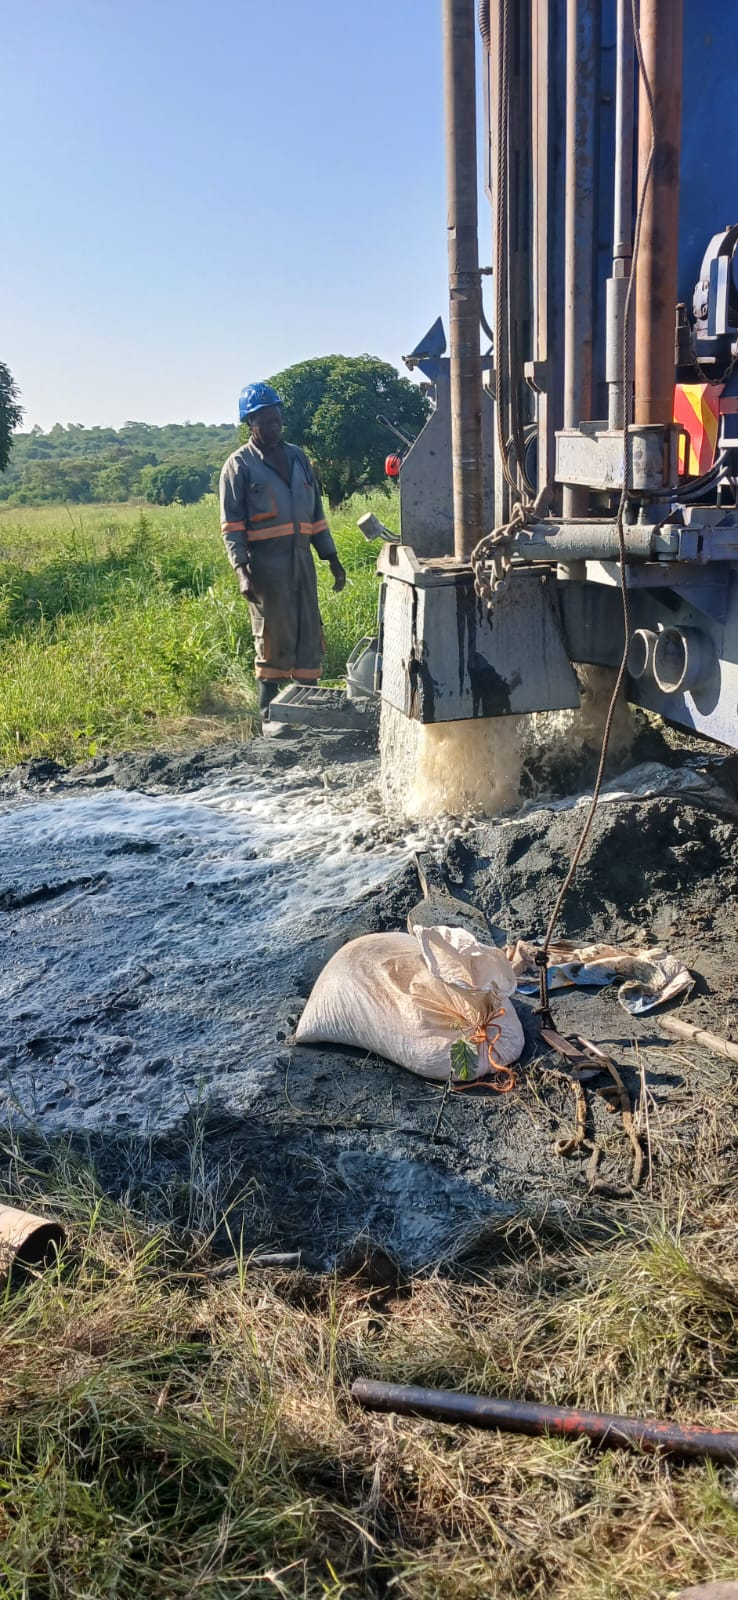
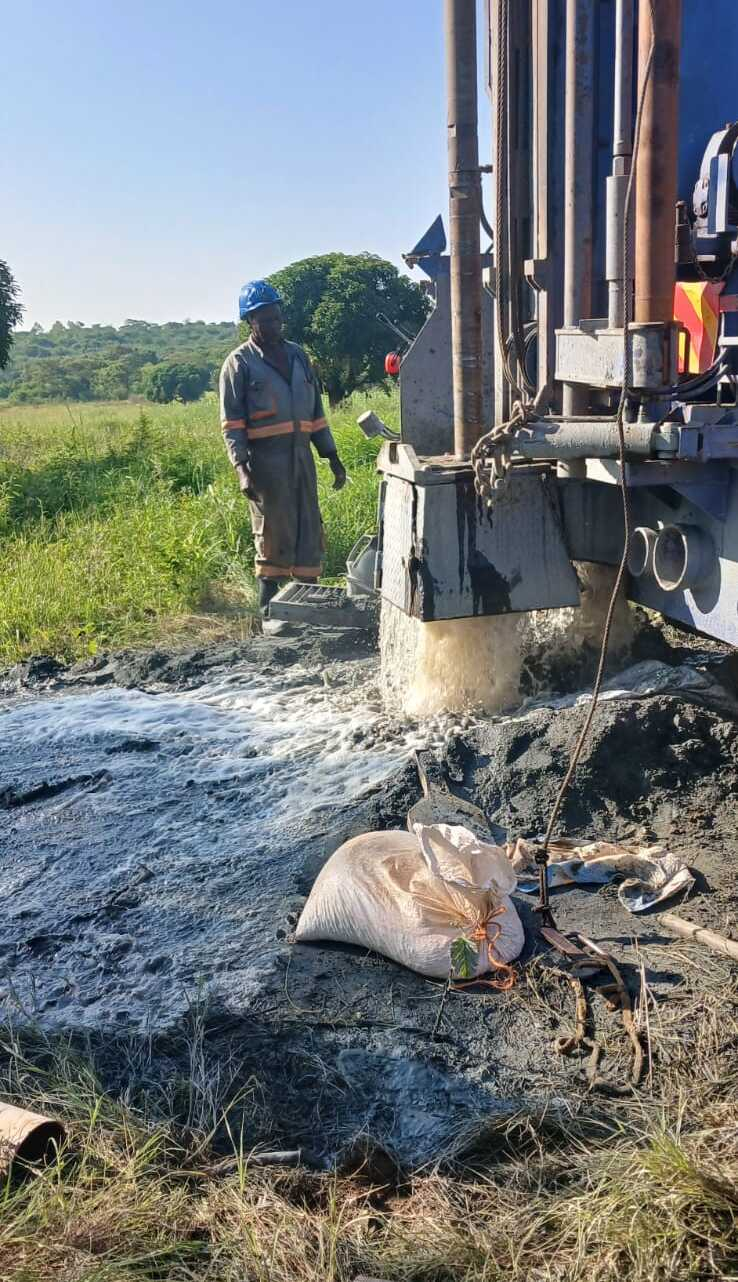
[UPDATE] - SEO and Resource Center Configurations

diff --git a/src/features/services/shared/MediaPlaceholder.jsx b/src/features/services/shared/MediaPlaceholder.jsx
@@ -1,3 +1,5 @@
+import { useEffect, useRef, useState } from "react";
+
 const AspectRatios = {
   video: "aspect-video",
   square: "aspect-square",
@@ -33,6 +35,45 @@ const ImageIcon = () => (
   </svg>
 );
 
+/**
+ * Wraps an <img> with a pulsing skeleton until it has loaded (or failed).
+ * The frame owns the aspect ratio, so there's no layout shift when the image arrives.
+ */
+const ImageFrame = ({ frameKey, sizingClass, className, children }) => {
+  const [settledKey, setSettledKey] = useState(null);
+  const imgRef = useRef(null);
+  const settled = settledKey === frameKey;
+
+  // Cached images can finish loading before React attaches onLoad
+  useEffect(() => {
+    const img = imgRef.current;
+    if (img?.complete) setSettledKey(frameKey);
+  }, [frameKey]);
+
+  const markSettled = () => setSettledKey(frameKey);
+
+  return (
+    <div
+      className={`relative w-full ${sizingClass} overflow-hidden rounded-xl ${className}`}
+    >
+      {!settled && (
+        <div
+          className="absolute inset-0 animate-pulse bg-gray-200"
+          aria-hidden="true"
+        />
+      )}
+      {children({
+        ref: imgRef,
+        onLoad: markSettled,
+        onError: markSettled, // stop pulsing if the image fails
+        imgClass: `h-full w-full transition-opacity duration-300 ${
+          settled ? "opacity-100" : "opacity-0"
+        }`,
+      })}
+    </div>
+  );
+};
+
 const MediaPlaceholder = ({
   type = "image",
   src,
@@ -67,18 +108,29 @@ const MediaPlaceholder = ({
     const fallback = `${basePath}-1280.jpg`;
 
     return (
-      <picture>
-        <source type="image/avif" srcSet={avifSrcSet} sizes={sizes} />
-        <source type="image/webp" srcSet={webpSrcSet} sizes={sizes} />
-        <img
-          src={fallback}
-          alt={alt}
-          loading={loading}
-          fetchPriority={fetchPriority}
-          decoding={loading === "eager" ? "sync" : "async"}
-          className={`w-full ${sizingClass} ${objectFitClass} rounded-xl ${className}`}
-        />
-      </picture>
+      <ImageFrame
+        frameKey={basePath}
+        sizingClass={sizingClass}
+        className={className}
+      >
+        {({ ref, onLoad, onError, imgClass }) => (
+          <picture>
+            <source type="image/avif" srcSet={avifSrcSet} sizes={sizes} />
+            <source type="image/webp" srcSet={webpSrcSet} sizes={sizes} />
+            <img
+              ref={ref}
+              src={fallback}
+              alt={alt}
+              loading={loading}
+              fetchPriority={fetchPriority}
+              decoding={loading === "eager" ? "sync" : "async"}
+              onLoad={onLoad}
+              onError={onError}
+              className={`${imgClass} ${objectFitClass}`}
+            />
+          </picture>
+        )}
+      </ImageFrame>
     );
   }
 
@@ -96,14 +148,25 @@ const MediaPlaceholder = ({
       );
     }
     return (
-      <img
-        src={src}
-        alt={alt}
-        loading={loading}
-        fetchPriority={fetchPriority}
-        decoding={loading === "eager" ? "sync" : "async"}
-        className={`w-full ${sizingClass} ${objectFitClass} rounded-xl ${className}`}
-      />
+      <ImageFrame
+        frameKey={src}
+        sizingClass={sizingClass}
+        className={className}
+      >
+        {({ ref, onLoad, onError, imgClass }) => (
+          <img
+            ref={ref}
+            src={src}
+            alt={alt}
+            loading={loading}
+            fetchPriority={fetchPriority}
+            decoding={loading === "eager" ? "sync" : "async"}
+            onLoad={onLoad}
+            onError={onError}
+            className={`${imgClass} ${objectFitClass}`}
+          />
+        )}
+      </ImageFrame>
     );
   }
 

diff --git a/src/features/services/shared/MediaGallery.jsx b/src/features/services/shared/MediaGallery.jsx
@@ -6,16 +6,7 @@ const MediaGallery = ({ items = [], aspect = "wide" }) => {
   const [active, setActive] = useState(0);
   const [isZoomed, setIsZoomed] = useState(false);
 
-  if (!items.length) {
-    return (
-      <MediaPlaceholder
-        type="image"
-        aspect={aspect}
-        caption="Gallery coming soon"
-      />
-    );
-  }
-
+  const hasItems = items.length > 0;
   const current = items[active];
   const goTo = (i) => setActive((i + items.length) % items.length);
 
@@ -39,13 +30,26 @@ const MediaGallery = ({ items = [], aspect = "wide" }) => {
     };
   }, [isZoomed, active, closeZoom]);
 
+  // Early return lives below all hooks so hook order stays stable
+  if (!hasItems) {
+    return (
+      <MediaPlaceholder
+        type="image"
+        aspect={aspect}
+        caption="Gallery coming soon"
+      />
+    );
+  }
+
   return (
     <div className="w-full">
       <div className="relative">
         <MediaPlaceholder
+          key={current.src}
           type={current.type}
           src={current.src}
           poster={current.poster}
+          alt={current.caption || ""}
           caption={current.caption}
           objectFit="contain"
           aspect={aspect}
@@ -96,7 +100,9 @@ const MediaGallery = ({ items = [], aspect = "wide" }) => {
               type="button"
               onClick={() => setActive(i)}
               aria-label={`Go to slide ${i + 1}`}
-              className={`w-2.5 h-2.5 rounded-full transition-colors ${i === active ? "bg-[#0F9E9E]" : "bg-gray-300"}`}
+              className={`w-2.5 h-2.5 rounded-full transition-colors ${
+                i === active ? "bg-[#0F9E9E]" : "bg-gray-300"
+              }`}
             />
           ))}
         </div>

diff --git a/src/features/resource-center/ResourceCenter.jsx b/src/features/resource-center/ResourceCenter.jsx
@@ -75,7 +75,7 @@ const ResourceCenter = () => {
             Knowledge Centre
           </h1>
           <p className="mt-3 max-w-2xl text-base leading-relaxed text-gray-700 sm:text-lg">
-            Practical guideance for farmers and land owners planning, drilling or maintaining a borehole
+            Practical information to help you make smarter borehole and water decisions before you spend.
           </p>
         </div>
       </section>

diff --git a/src/routes/AppRouter.jsx b/src/routes/AppRouter.jsx
@@ -47,7 +47,7 @@ const AppRouter = () => {
       <Route element={<AppShell />}>
         <Route index path="/" element={<Home />} />
         <Route path="/about" element={<About />} />
-        <Route path="/resource-centre" element={<ResourceCenter />} />
+        <Route path="/knowledge-centre" element={<ResourceCenter />} />
         <Route path="/contact" element={<Contact />} />
 
         {/* {TODO : Nest the services pages} */}

diff --git a/src/components/layout/Navbar.jsx b/src/components/layout/Navbar.jsx
@@ -22,7 +22,7 @@ const NAV_LINKS = [
   { name: "Home", path: "/" },
   { name: "About", path: "/about" },
   { name: "Services", path: "/services", children: SERVICE_LINKS },
-  { name: "Resource Centre", path: "/resource-centre" },
+  { name: "Knowledge Centre", path: "/knowledge-centre" },
   { name: "Contact", path: "/contact" },
 ];
 

diff --git a/src/components/layout/Footer.jsx b/src/components/layout/Footer.jsx
@@ -3,6 +3,7 @@ import { Link } from "react-router-dom";
 const QUICK_LINKS = [
   { name: "Home", path: "/" },
   { name: "About Us", path: "/about" },
+  { name: "Knowledge Centre", path: "/knowledge-centre" },
   { name: "Contact Us", path: "/contact" },
 ];
 
